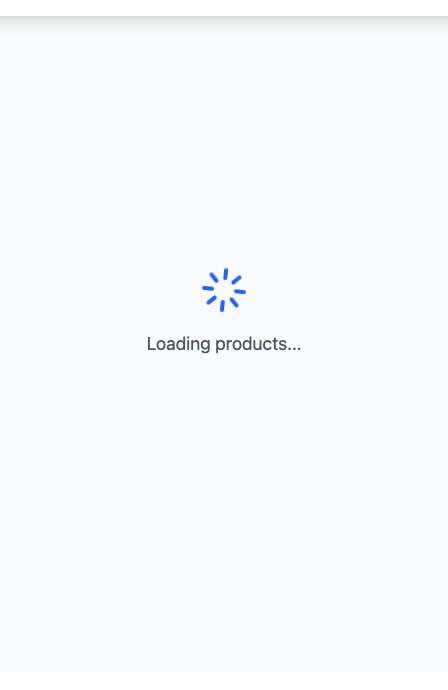
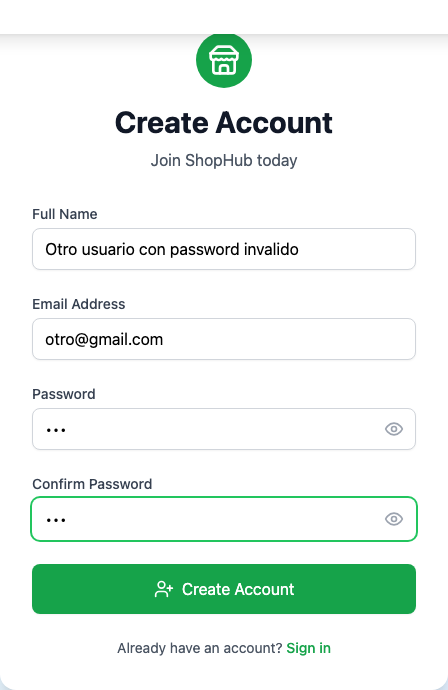
Feat: AllureReports

diff --git a/tests/registro.spec.js b/tests/registro.spec.js
@@ -1,5 +1,6 @@
 import test, { expect } from "@playwright/test";
 import RegistroPage from "./pages/Registro";
+import * as allure from "allure-js-commons";
 
 let registroPage;
 test.describe("Pruebas de Registro e2e", () => {
@@ -9,18 +10,32 @@ test.describe("Pruebas de Registro e2e", () => {
     });
 
     test('Registro con datos válidos', async ({ page }) => {
-        await registroPage.registrar('Leonardo', 'ljcl79@gmail.com', '12345678', '12345678');
-        await page.screenshot({ path: 'screenshots/registro-valido.png' })
-        await expect(page.getByText('Logout', { exact: true })).toHaveText('Logout');
+        allure.epic('Datos válidos');
+
+        await allure.step('1. Ejecutar acciones del formulario', async () => {
+            await registroPage.registrar('Leonardo', 'ljcl79@gmail.com', '12345678', '12345678');
+        });
+
+        await allure.step('2. Ejecutar prueba', async () => {
+            await expect(page.getByText('Logout', { exact: true })).toHaveText('Logout');
+            const screenshot = await page.screenshot({ path: 'screenshots/registro-valido.png' });
+            await allure.attachment('Registro exitoso', screenshot, 'image/png');
+        });
     });
 
     test('Registro con password diferente', async ({ page }) => {
-        await registroPage.registrar('Otro usuario', 'otro@gmail.com', '12345678', '12343434348');
-        await page.screenshot({ path: 'screenshots/registro-con-password-diferente.png', fullPage: true })
-        await expect(registroPage.mensajeError).toHaveText('Passwords do not match');
+        allure.epic('Datos inválidos');
+        await allure.step('1. Ejecutar acciones del formulario', async () => {
+            await registroPage.registrar('Otro usuario', 'otro@gmail.com', '12345678', '12343434348');
+        });
+        await allure.step('2. Ejecutar prueba', async () => {
+            await expect(registroPage.mensajeError).toHaveText('Passwords do not match');
+        });
     });
 
     test('Registro con password inválido', async ({ page }) => {
+        allure.epic('Datos inválidos');
+        allure.severity('critical');
         await registroPage.registrar('Otro usuario con password invalido', 'otro@gmail.com', '123', '123');
         await expect(registroPage.mensajeError).toHaveText('Password must be at least 6 characters long');
     });

diff --git a/tests/login.spec.js b/tests/login.spec.js
@@ -1,11 +1,15 @@
 import test, { expect } from "@playwright/test";
 import LoginPage from "./pages/Login";
+import * as allure from "allure-js-commons";
+
 let loginPage
 test.describe("Pruebas de login", () => {
     test.beforeEach(async ({ page }) => {
         loginPage = new LoginPage(page)
     })
     test("Login con datos validos", async ({ page }) => {
+        allure.epic('Datos válidos');
+        allure.severity('high');
         await loginPage.login(
             "admin@example.com",
             "admin123"
@@ -16,6 +20,8 @@ test.describe("Pruebas de login", () => {
     })
     test("Login con datos NO validos", async ({ page }) => {
         // TODO
+        allure.epic('Datos inválidos');
+        allure.severity('critical');
         await loginPage.login(
             "admin@exampwwwle.com",
             "admin123"

diff --git a/playwright.config.js b/playwright.config.js
@@ -27,6 +27,7 @@ export default defineConfig({
   reporter: [
     ['list'],
     ['html'],
+    ['allure-playwright'],
     ['json', { outputFile: 'results.json' }]
   ],
   /* Shared settings for all the projects below. See https://playwright.dev/docs/api/class-testoptions. */
